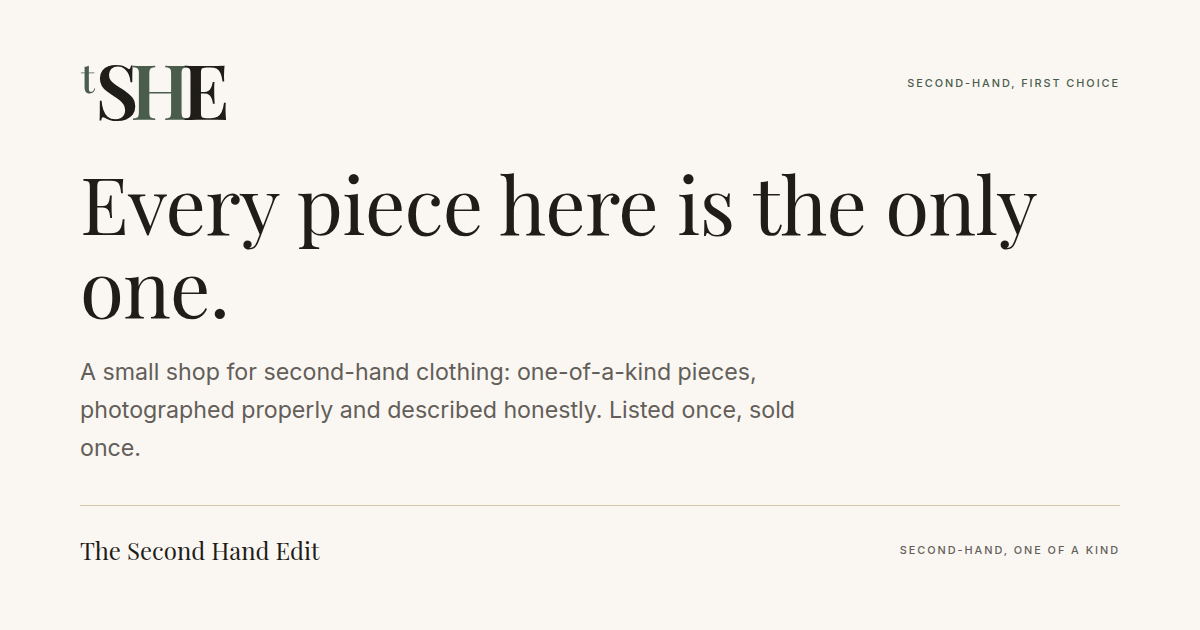
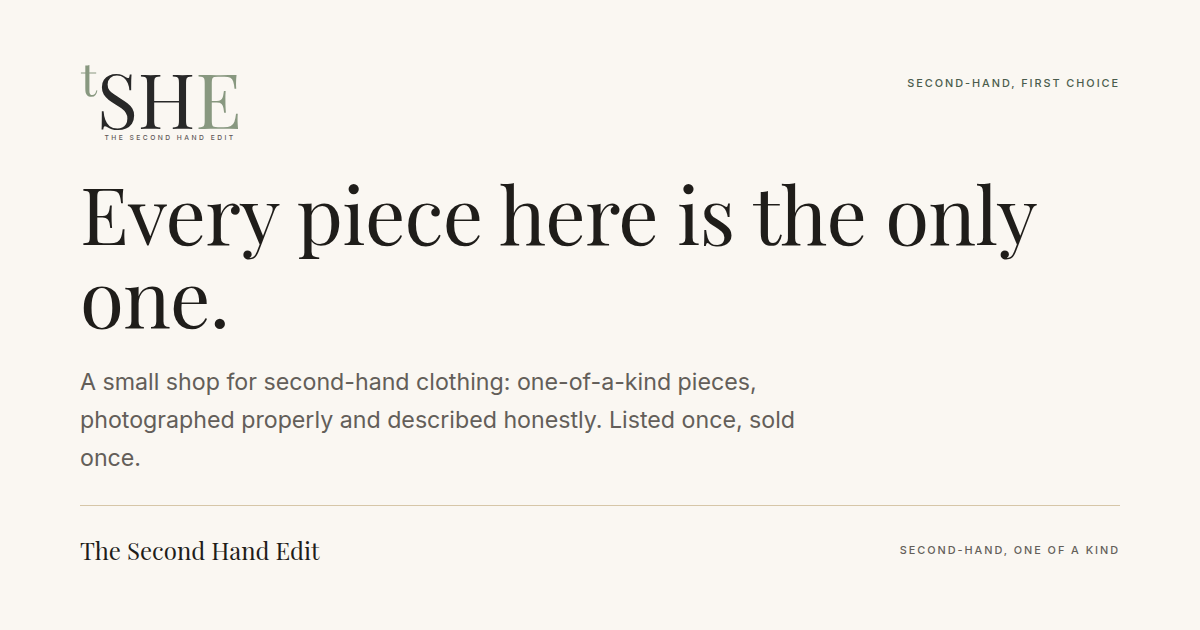
Regenerate the share card from the owner's own mark
The card still drew the retired mark while its description had already been
rewritten for the owner's logo, so a shared link would have shown the wrong
brand. It is now rendered from the current mark at exactly 1200x630, carrying the
owner's full lockup: the letterspaced name sits under the initials in their grey,
using the same proportions as the footer lockup rather than a second set. The
description now names the name line the card actually draws.

Work by the team engineer.

diff --git a/brand/og-card.html b/brand/og-card.html
@@ -70,6 +70,37 @@
         color: #4a5c4c;
         padding-top: 12px;
       }
+      /* The owner's full lockup: their mark (public/monogram.svg, the same
+         geometry as src/components/Monogram.tsx) with the business name
+         letterspaced underneath in their grey, exactly as the site footer draws
+         it. Every number below is the footer lockup's, scaled by 67/110, so the
+         share card and the page carry one lockup rather than two variants:
+         width 261.68px -> 159.39px, font-size 11px -> 6.7px, margin-top 7px ->
+         4.26px. The name is centred under the three initials, not under the whole
+         mark, so the t's overhang on the left is not counted (13.51% in, 0.58%
+         off the right). Colours are the owner's: ink #282828 and sage #889880 in
+         the mark, #605858 for the name. */
+      .lockup {
+        width: 159.39px;
+      }
+      .lockup img {
+        display: block;
+        height: 67px;
+        width: 159.39px;
+      }
+      .lockup-name {
+        margin: 4.26px 0 0;
+        padding-right: 0.58%;
+        padding-left: 13.51%;
+        color: #605858;
+        font-family: "Inter", ui-sans-serif, system-ui, sans-serif;
+        font-size: 6.7px;
+        font-weight: 500;
+        line-height: 1;
+        letter-spacing: 0.37em;
+        text-align: center;
+        text-transform: uppercase;
+      }
       h1 {
         font-family: "Playfair Display", ui-serif, Georgia, serif;
         font-weight: 400;
@@ -107,7 +138,10 @@
   <body>
     <div id="card">
       <div class="top">
-        <img src="/monogram.svg" alt="" style="height: 58px; width: auto" />
+        <div class="lockup">
+          <img src="/monogram.svg" alt="" />
+          <p class="lockup-name">The Second Hand Edit</p>
+        </div>
         <p class="label">Second-hand, first choice</p>
       </div>
 

diff --git a/src/routes/__root.tsx b/src/routes/__root.tsx
@@ -12,11 +12,14 @@ const SHARE_IMAGE = "/og-card.png";
 const SHARE_TITLE = `${BUSINESS_NAME}: second-hand clothing, one piece at a time`;
 const SHARE_DESCRIPTION =
   "A small shop for second-hand clothing: one-of-a-kind pieces, photographed properly and described honestly. Each piece is listed once and sold once.";
-/* Matches what public/og-card.png actually draws: the owner's lockup at the top
-   left (a small sage t with its crossbar overhanging to the left, then the ink S
-   and H and the sage E), the headline, and the shop name above the closing rule.
-   Keep the two in step, the card is regenerated from brand/og-card.html. */
-const SHARE_IMAGE_ALT = `${BUSINESS_NAME}: the serif lockup, a small sage t with its crossbar reaching out to the left in front of the ink initials S and H and the sage E, on cream, above the headline "Every piece here is the only one."`;
+/* Matches what public/og-card.png actually draws: the owner's full lockup at the
+   top left (a small sage t with its crossbar overhanging to the left, then the
+   ink S and H and the sage E, with THE SECOND HAND EDIT letterspaced in grey
+   underneath), the headline, and the shop name above the closing rule. Keep the
+   two in step: the card is regenerated by rendering brand/og-card.html at
+   1200x630 (see brand/README.md). There is no preview route for it in
+   src/routes; brand/og-card.html is the only source. */
+const SHARE_IMAGE_ALT = `${BUSINESS_NAME}: the serif lockup, a small sage t with its crossbar reaching out to the left in front of the ink initials S and H and the sage E, with THE SECOND HAND EDIT letterspaced in grey underneath, on cream, above the headline "Every piece here is the only one."`;
 
 export const Route = createRootRoute({
   head: () => ({

diff --git a/brand/README.md b/brand/README.md
@@ -76,7 +76,13 @@ browser renders them exactly. From `/home/team/shared/site` with the dev server 
 2. Wrap the 16/32/48 PNGs into `favicon.ico` (a 6-byte ICONDIR, one 16-byte ICONDIRENTRY per
    image, then the PNG buffers; every current browser accepts PNG inside ICO).
 3. The share card: copy `brand/og-card.html` into `public/`, screenshot `#card` at 1200x630
-   with the mark at `height: 67px`, save it as `public/og-card.png`, delete the copy again.
+   (viewport 1200x630, so the screenshot is the card and nothing else), save it as
+   `public/og-card.png`, delete the copy again. The card's top-left corner is the full
+   lockup, not the bare mark: `monogram.svg` at `height: 67px` with the name letterspaced
+   underneath at the footer lockup's own proportions scaled by 67/110 (width 159.39px,
+   `font-size: 6.7px`, `letter-spacing: 0.37em`, `#605858`, centred under the initials).
+   `SHARE_IMAGE_ALT` in `src/routes/__root.tsx` describes what the card draws, so if the
+   composition changes, change both.
 4. Delete the temporary page, then check the head tags in the served HTML and that
    `/monogram.svg`, `/icon.svg`, `/favicon.ico`, `/icon-192.png`, `/icon-512.png`,
    `/apple-touch-icon.png` and `/og-card.png` all answer 200.

diff --git a/CONTENT.md b/CONTENT.md
@@ -261,8 +261,9 @@ Nothing here needs changing unless the owner wants a different look.
 
 The mark is the owner's own drawing: a lowercase serif **t** in sage, its crossbar
 overhanging to the left, at the cap line in front of the initials **SHE**, with the **S** and
-**H** in ink and the **E** in sage. Underneath, in the footer, the name is letterspaced in
-grey, exactly as the owner drew the lockup. Every letterform is a path cut from the site's
+**H** in ink and the **E** in sage. Underneath, the name is letterspaced in
+grey, exactly as the owner drew the lockup: in the footer, and in the share card's own
+top-left corner (see `brand/README.md`). Every letterform is a path cut from the site's
 own Playfair Display 400, so the mark never depends on a webfont. The favicon and the app
 icons are a deliberate simplification (the three initials on an ink field) because the t is
 unreadable at 16px. `brand/README.md` has the measurements the rebuild was matched to, the
